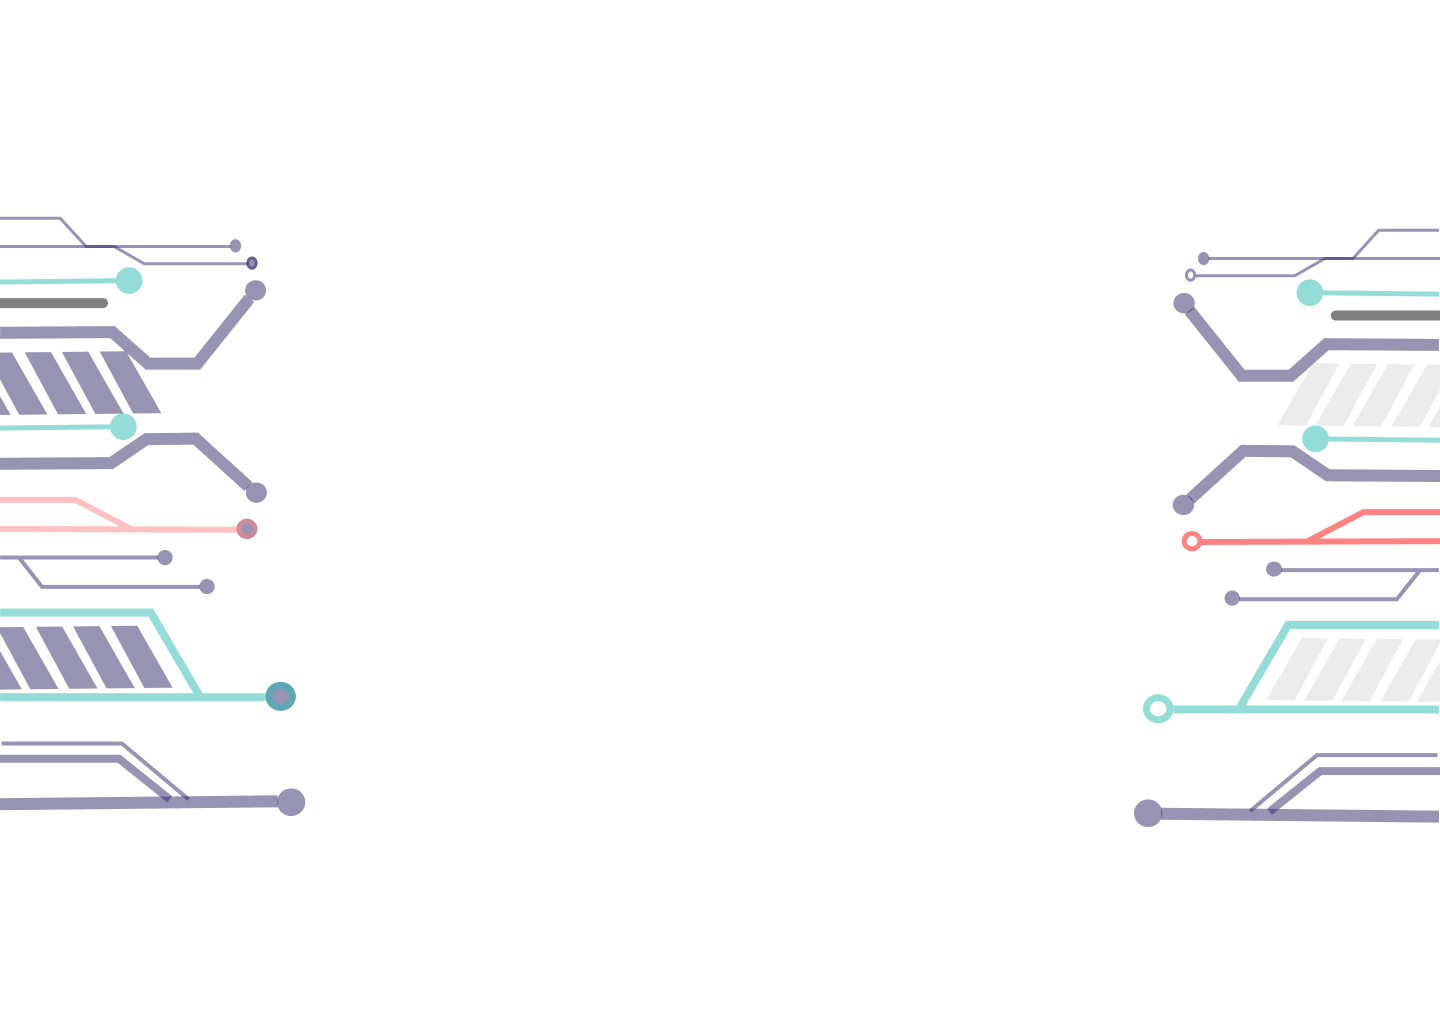
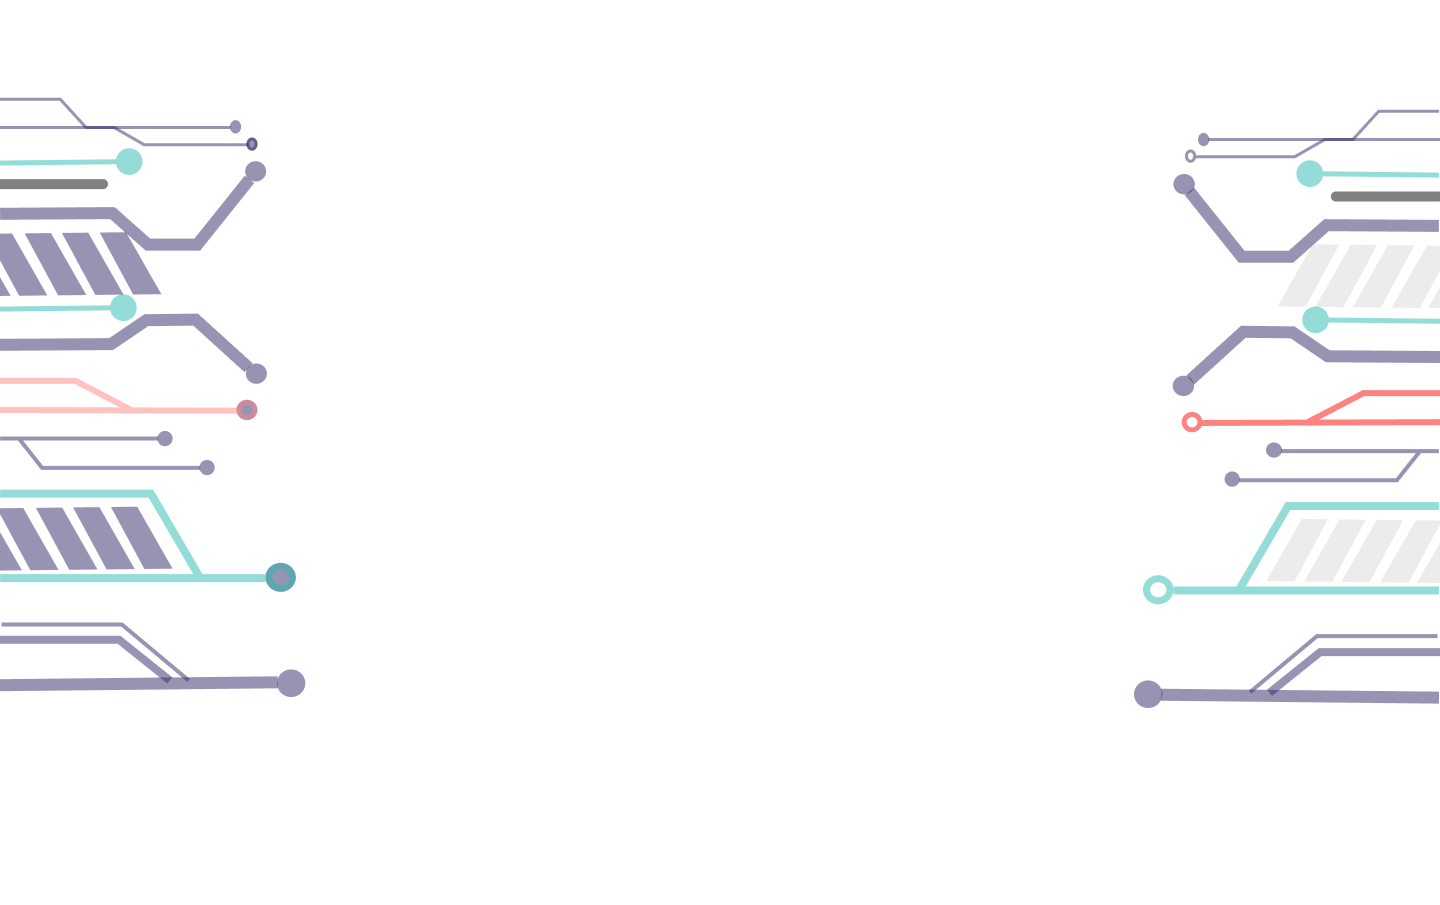
penambahan media xs dan xl

Changed region(s): [[0.0, 0.0928, 0.2188, 0.8044], [0.7812, 0.1547, 1.0, 0.8044], [0.9375, 0.0928, 1.0, 0.1547]]

diff --git a/style.css b/style.css
@@ -3,11 +3,12 @@ body{
     padding: 0%;
 }
 
-.container-background{
-    background: url(aset/BG-Omni.png);
+.container-background {
+    background-image: url(aset/BG-Omni.png);
     background-repeat: no-repeat;
     background-size: cover;
 }
+
 
 hr {
     width: 50%;
@@ -37,6 +38,11 @@ hr {
     width: 150px;
 }
 
+.btn:hover {
+    box-shadow: 30%;
+    transform: scale(1.3)
+}
+
 
 .footer{
     height: 10vh;
@@ -51,4 +57,72 @@ hr {
 .logo{
     height: 50%;
     width: 40px;
+}
+
+
+
+@media (min-width: 1920px) and (min-height: 1080px){
+
+    .container-background {
+        height: 100vh;  
+    }
+
+    .img {
+        height: 460px;
+    }
+
+    .container {
+        height: 35vh;
+        border: 4px dashed green;
+
+    }
+
+    .col-8 {
+        margin-left: 39%;
+    }
+
+
+    .btn {
+        width: 200px;
+        height: 50px;
+    }
+
+    .footer {
+        margin-top: 0%;
+    }
+
+}
+
+@media (min-width: 312px) and (max-width: 575.98px) {
+
+    .container-background {
+        background-image: none;
+    }
+
+    .img {
+        width: 100%;
+        height: auto;
+    }
+
+    .container {
+        width: 90%;
+        height: auto;
+        height: 30vh;
+    }
+
+    .col-8 {
+        margin-left: 33%;
+    }
+
+    .col-6 {
+        padding-left: 11%;
+    }
+
+    .btn {
+        width: 100px;
+    }
+
+    .footer {
+        margin-top: 16%;
+    }
 }
